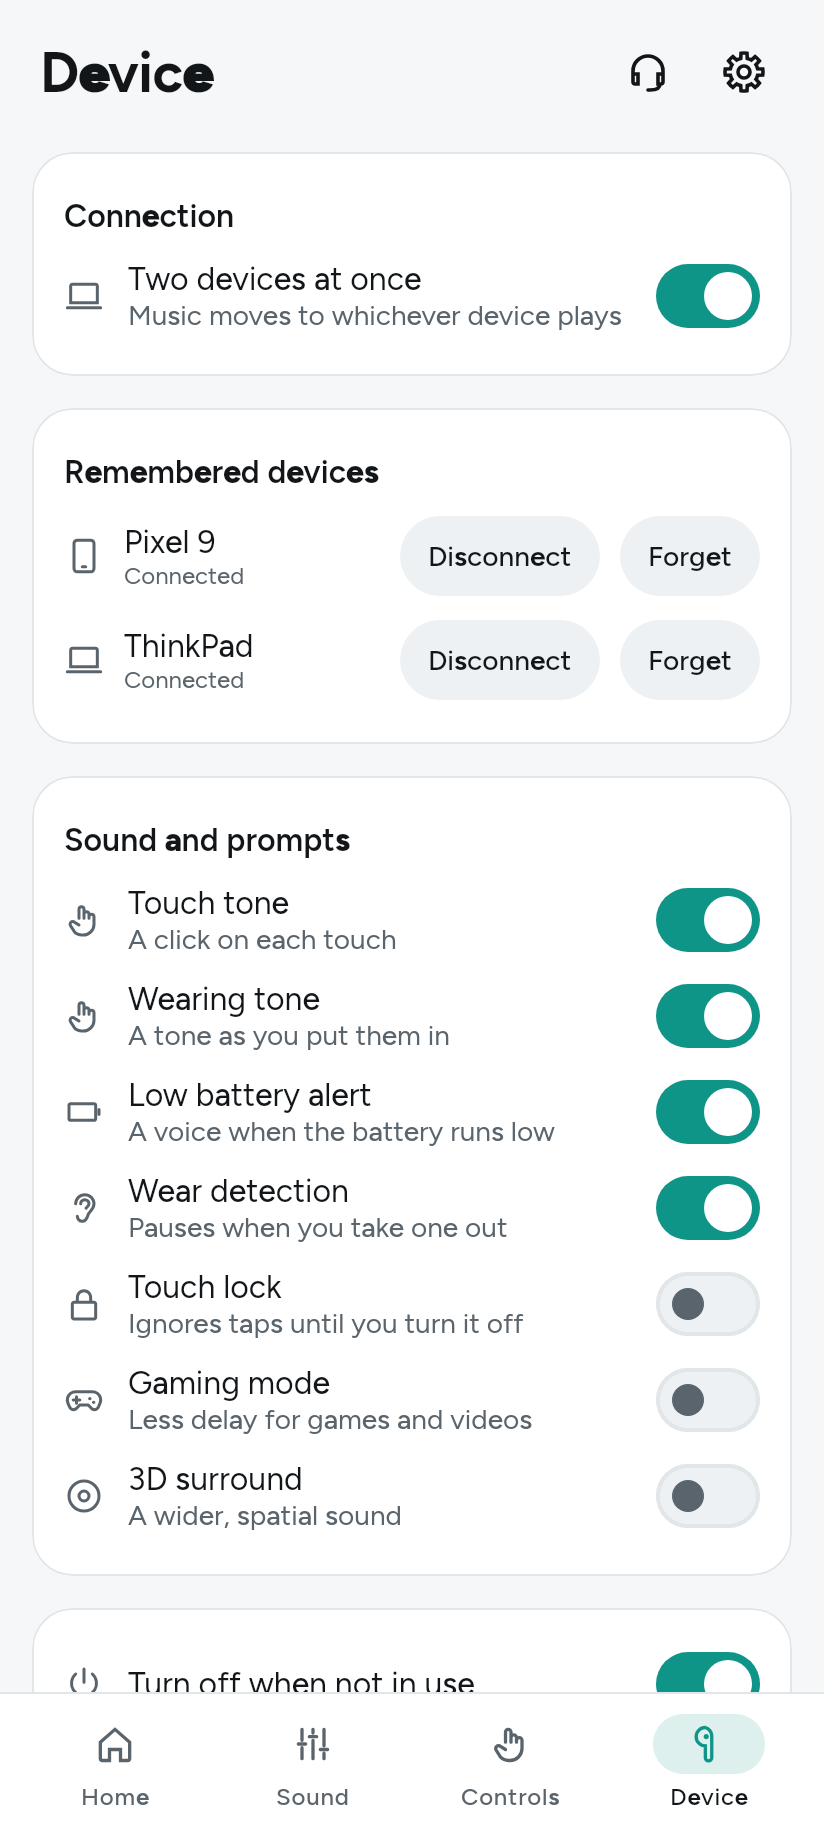
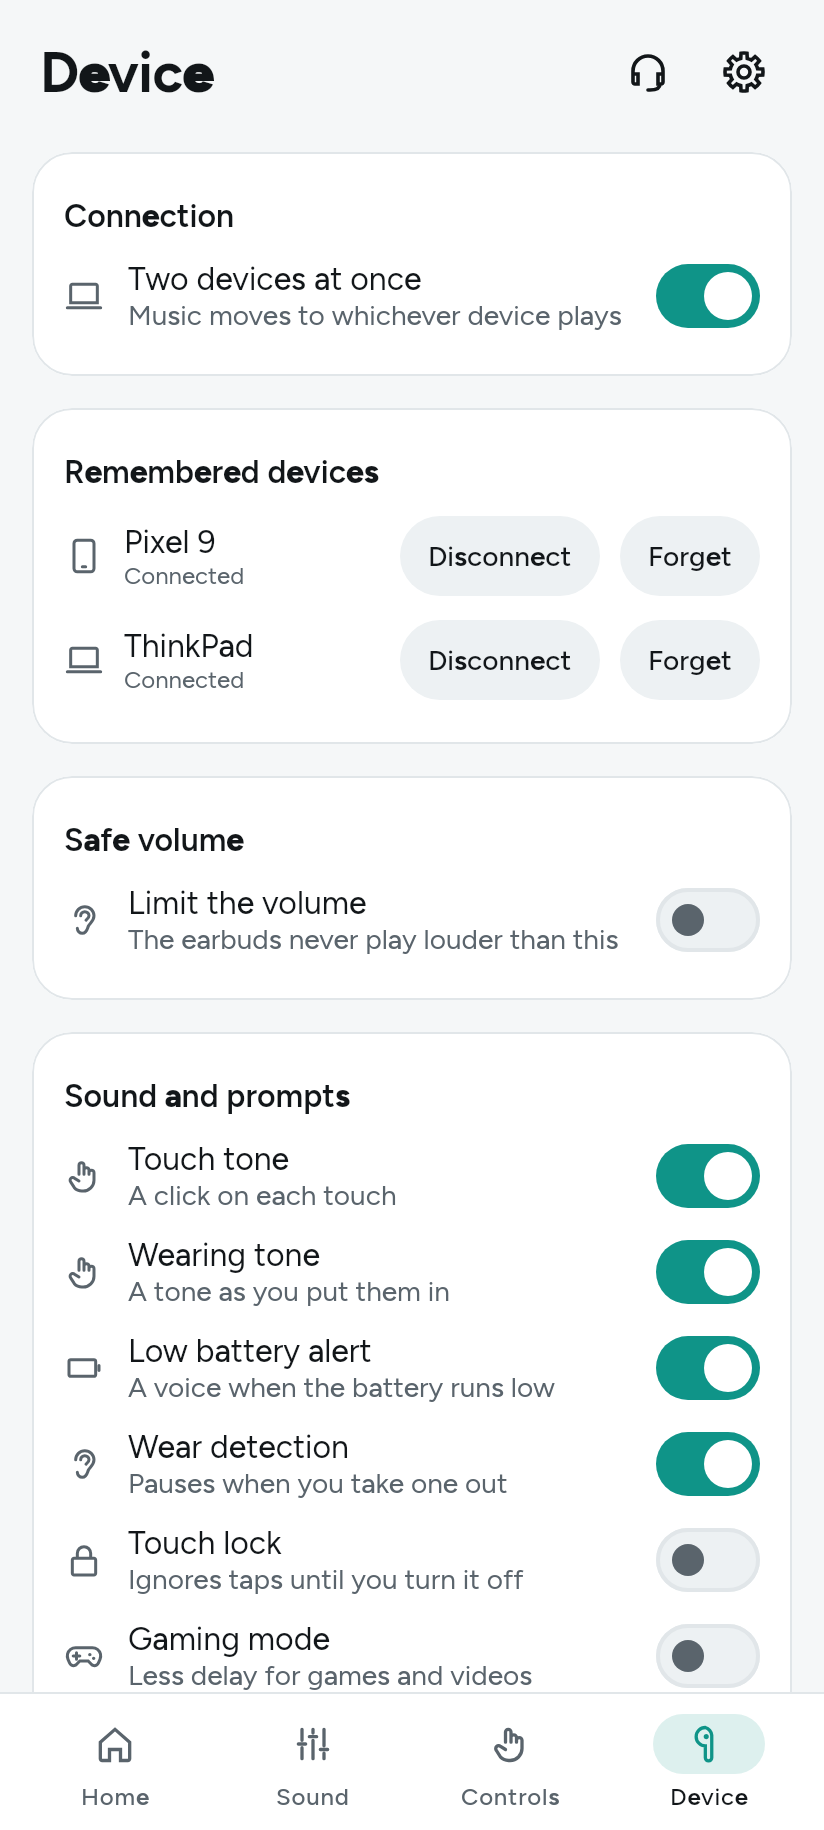
Readme: safe volume, find, fit test, the ear drawings, the widget and the tile

diff --git a/README.md b/README.md
@@ -22,7 +22,12 @@ Everything you reach for is on one screen:
 - **Quick switches**: gaming mode, 3D surround, wear detection, touch lock
 - **Two devices or best quality**: the Liberty 4 NC can join two devices at once or play LDAC to one; the app makes that choice plain and lists the devices the earbuds remember
 
-One tap deeper: every touch control on each earbud (tap, double tap, triple tap, press and hold), which modes a touch cycles through, tones and prompts, auto power off, and the earbuds' firmware and serial number.
+- **Safe volume**: a cap on how loud they play, from 75 to 100 dB
+- **Find my earbuds**, an **ear tip fit test**, and **how to wear them**, drawn on an ear
+
+Touch controls are drawn on an ear too: pick a side, and each kind of touch (tap, double tap, triple tap, press and hold) shows what it does. Sound presets are colour tiles that show the shape of each sound. Tones and prompts, auto power off, and the earbuds' firmware and serial number are in the Device tab.
+
+On Android, a home-screen widget shows the battery and switches modes, and a quick-settings tile changes the mode from the shade, both without opening the app.
 
 On a computer it also lives in the tray: battery and mode in the menu, and a small panel on a click.
 
